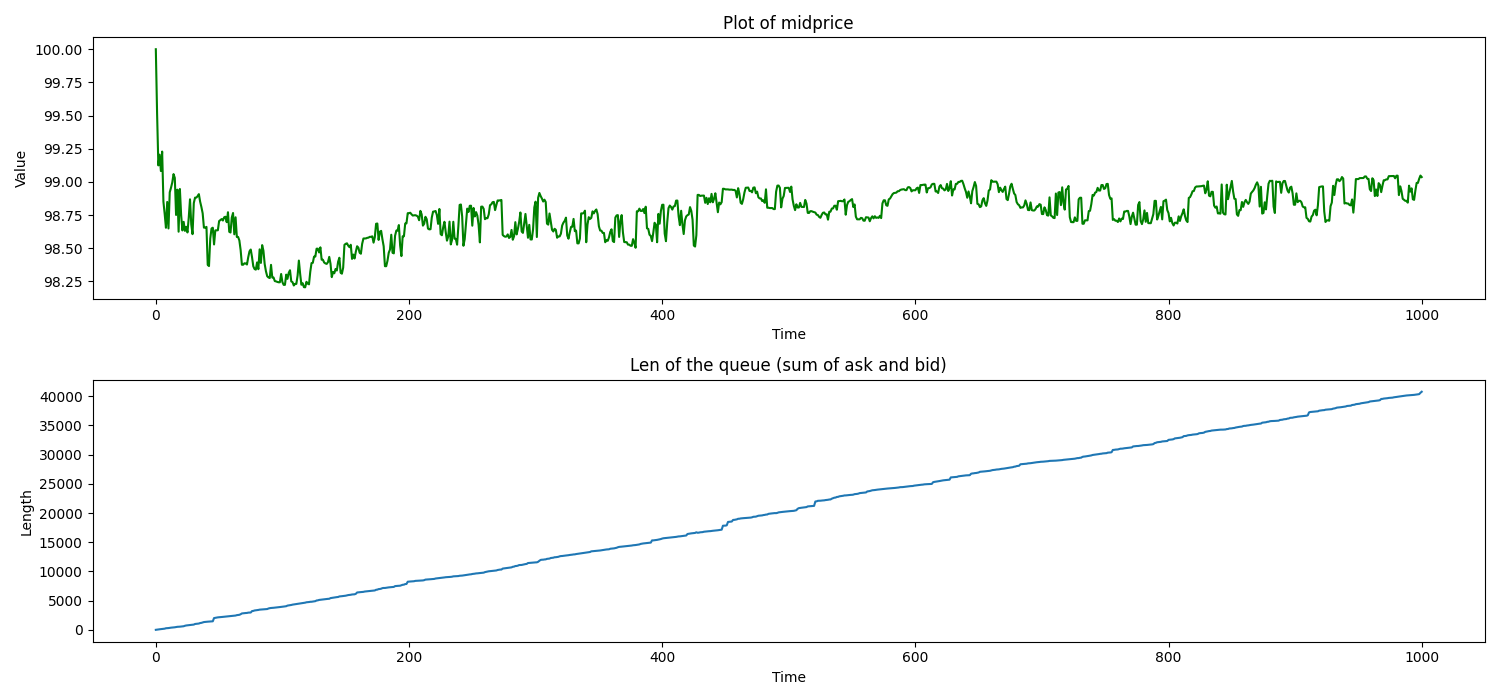
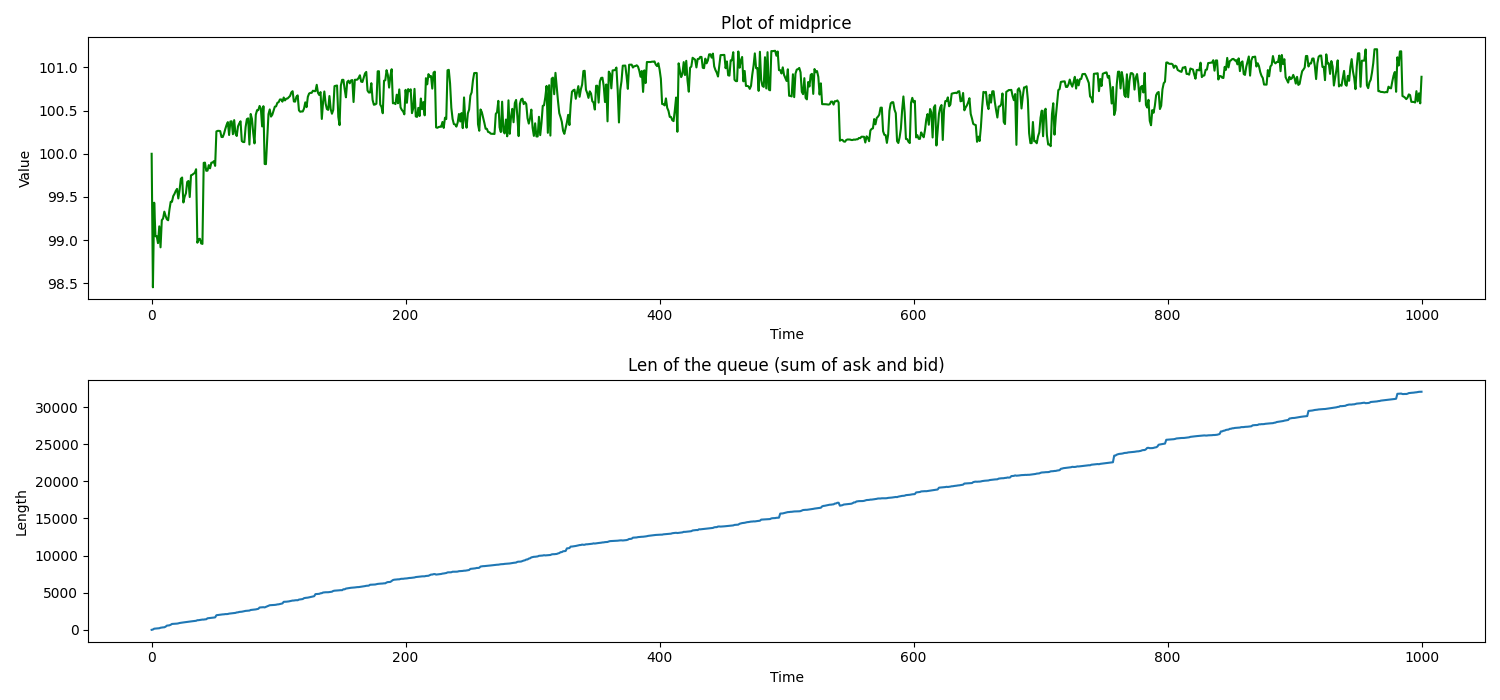
more comments

diff --git a/classes/limit_order_book.py b/classes/limit_order_book.py
@@ -43,7 +43,8 @@ class LimitOrderBookSimulator:
     
     def simplify(self):
         '''
-        Simplify ask and bids so that the vectors remain disjoint
+        Simplify ask and bids: each time there is a bid higer than an ask there is a transaction (at the average price) and the two twings simplify
+        In this way the vectors remain disjoint, and the gap non-zero
         '''
         m = min(len(self.asks), len(self.bids))
         i = 0
@@ -65,7 +66,8 @@ class LimitOrderBookSimulator:
         Simulate the evolution of the stock price.
 
         Returns:
-        np.ndarray: Array of stock prices at each time step.
+        S: Array of stock prices at each time step.
+        queue_len: Array containing how many orders there are in the queue at given timestep
         """
 
         # Initialize stock price array
@@ -81,9 +83,17 @@ class LimitOrderBookSimulator:
         buy_orders = self.Lambda*self.sample_orders(size=self.N+1)
 
         for i in range(self.N):
+            '''
+            Model of the queues:
+                1. At each time the number of sell and buy orders are samples randomly (eq. 9 in the paper) as in the vectors sell_orders, buy_orders
+                2. For any of these orders, we sample its price for an exponential distribution. In this way, 
+                    the maximum of the orders grows logarithmically with order size (eq. 11)
+                3. The exponential distributions are shifted by a variable shift which reflects the fact that the buyer percieve that the price is going up or down
+                    in this way, we ensure that, approximately, the midprice is a Brownian motion with std sigma (eq. 1)
+            '''
             # Compute delta_bid values
-            delta_bids = np.random.exponential(size=int(sell_orders[i]))
-            delta_asks = np.random.exponential(size=int(buy_orders[i]))
+            delta_bids = np.random.exponential(scale=self.sigma, size=int(sell_orders[i]))
+            delta_asks = np.random.exponential(scale=self.sigma, size=int(buy_orders[i]))
             shift = np.random.normal(0,self.sigma)
 
             # Center the order w.r.t. the mean

diff --git a/main.py b/main.py
@@ -4,7 +4,7 @@ from classes.limit_order_book import LimitOrderBookSimulator
 S0 = 100        # Initial stock price
 T = 1000         # Total time period
 dt = 1        # Time step size
-sigma = 0.005*S0  # Standard deviation
+sigma = 0.01*S0  # Standard deviation
 N = int(T / dt)  # Number of time steps
 Lambda = 10  # Frequency of orders
 
